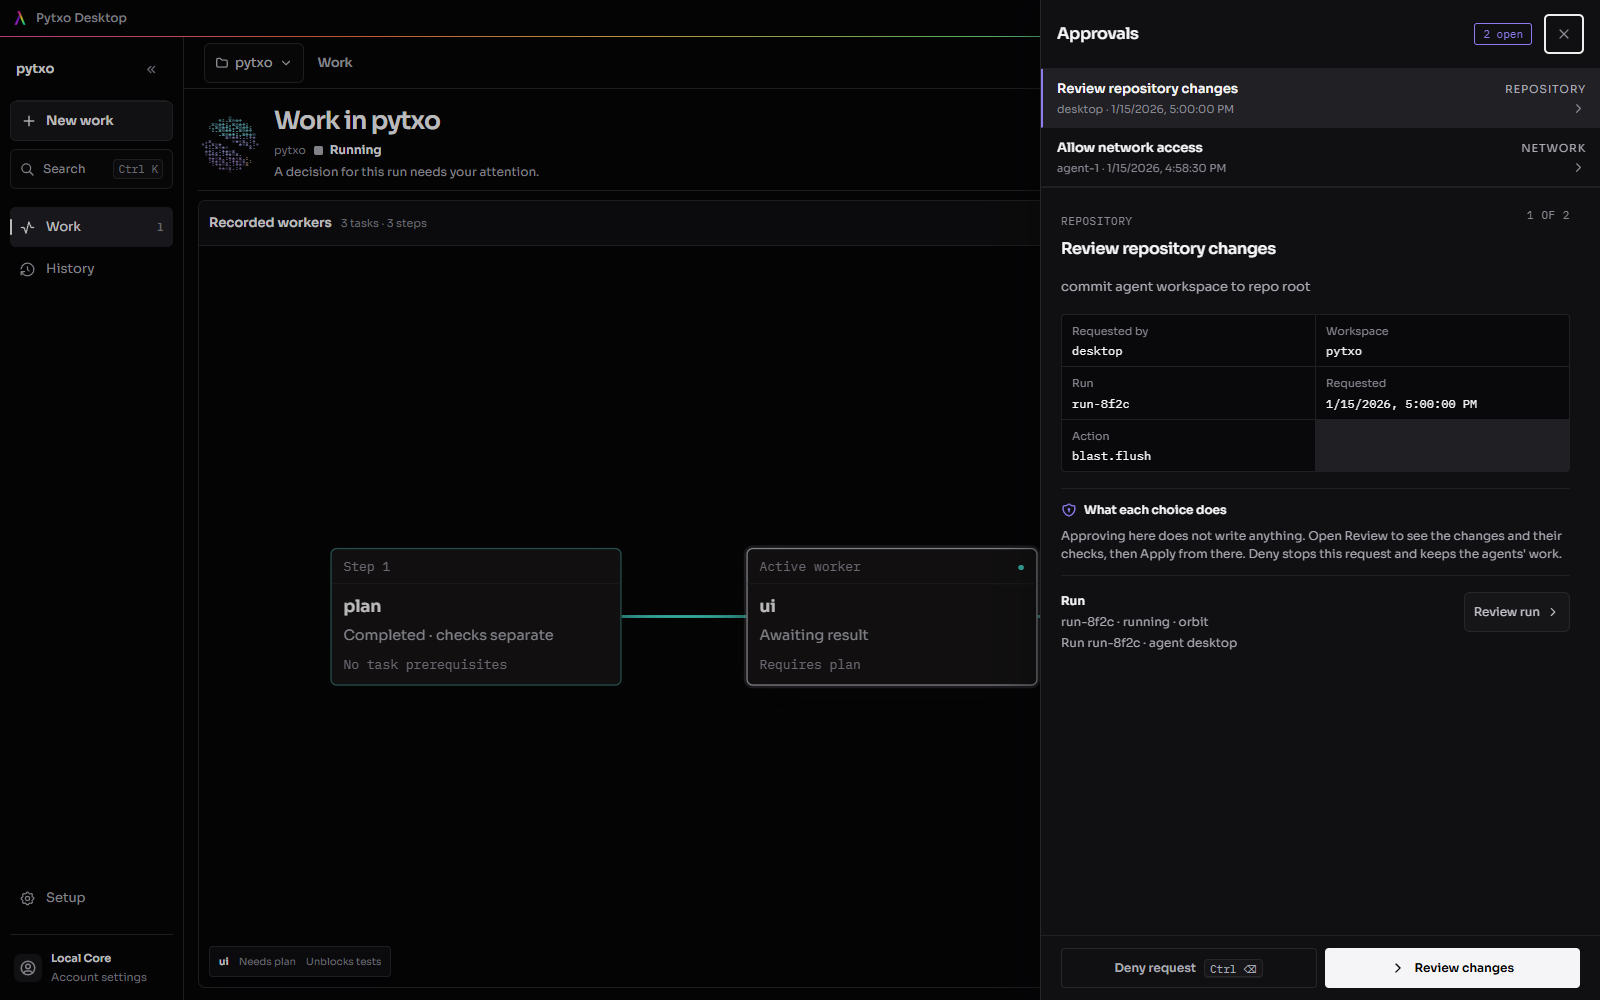
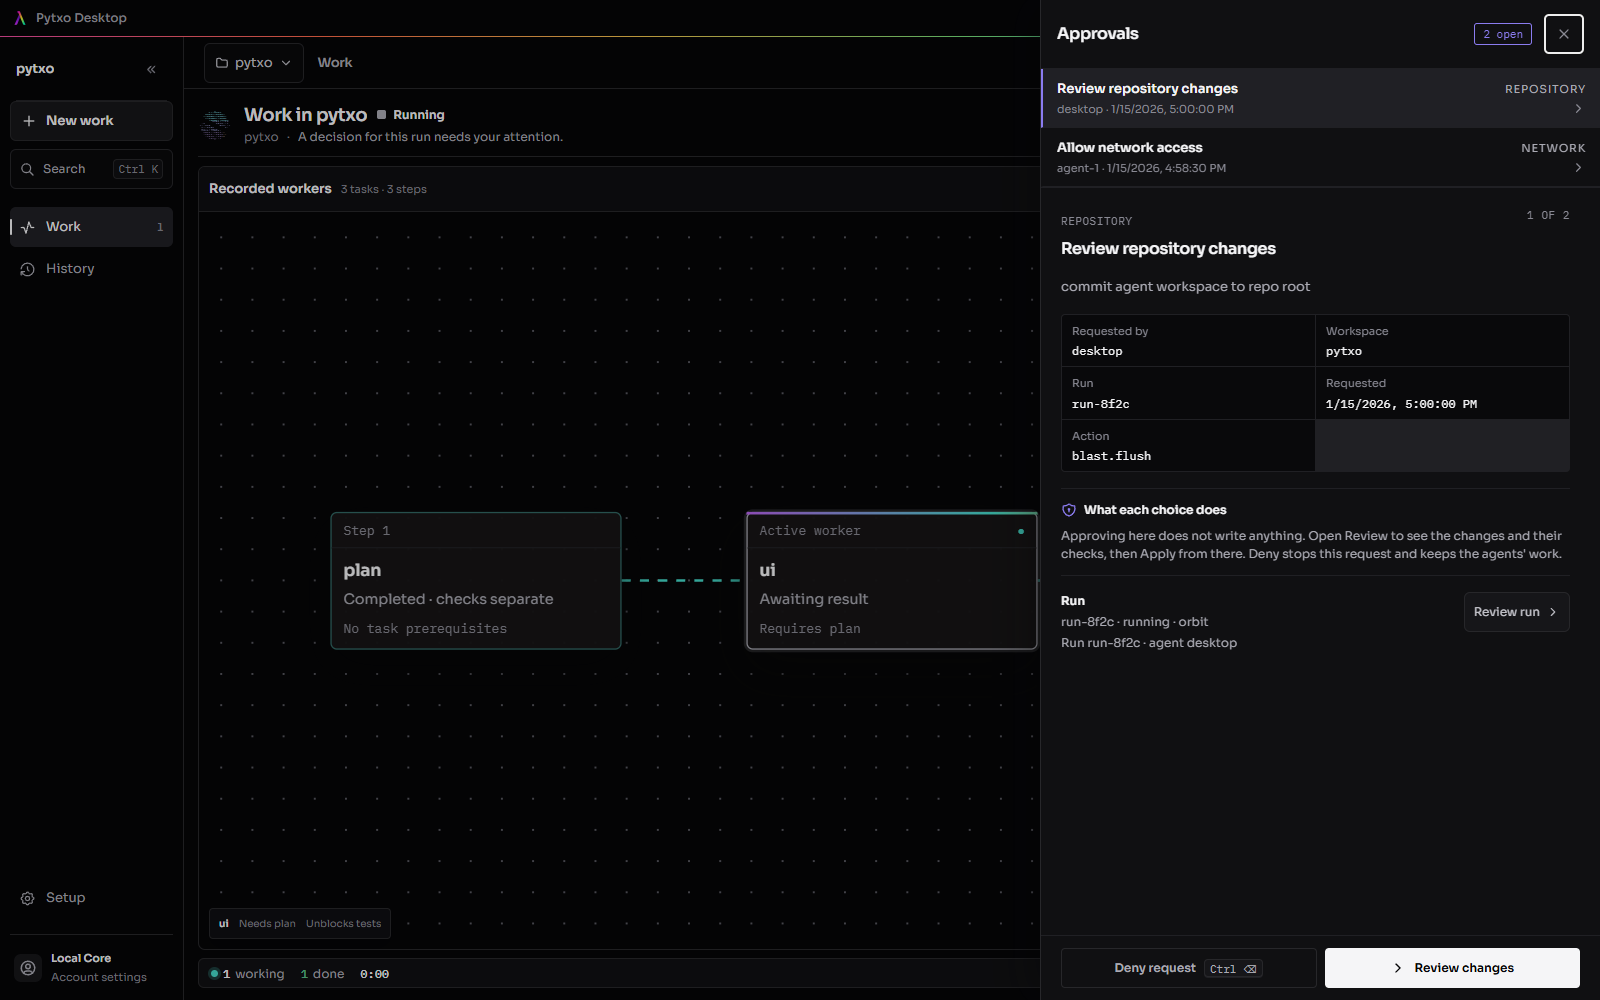
chore: refresh product captures; local native journey with a film take

diff --git a/tooling/acceptance/journey.py b/tooling/acceptance/journey.py
@@ -35,6 +35,8 @@ parser.add_argument("--mission")
 parser.add_argument("--team", default="Claude Code,Cursor Agent,OpenCode,Antigravity")
 parser.add_argument("--name", default="probe")
 parser.add_argument("--onboard", action="store_true")
+# Film takes: 60 fps without the baked-in pointer (it is redrawn from receipt telemetry), plus a canvas drag.
+parser.add_argument("--film", action="store_true")
 args = parser.parse_args()
 
 out = Path(args.out)
@@ -218,8 +220,8 @@ def start_recording():
     ffmpeg = imageio_ffmpeg.get_ffmpeg_exe()
     target = out / "screen.mkv"
     recorder = subprocess.Popen(
-        [ffmpeg, "-hide_banner", "-loglevel", "error", "-use_wallclock_as_timestamps", "1", "-f", "gdigrab", "-framerate", "30", "-draw_mouse", "1", "-i", "desktop",
-         "-copyts", "-c:v", "libx264", "-preset", "ultrafast", "-crf", "16", "-pix_fmt", "yuv420p", "-y", str(target)],
+        [ffmpeg, "-hide_banner", "-loglevel", "error", "-use_wallclock_as_timestamps", "1", "-f", "gdigrab", "-framerate", "60" if args.film else "30", "-draw_mouse", "0" if args.film else "1", "-i", "desktop",
+         "-copyts", "-c:v", "libx264", "-preset", "ultrafast", "-crf", "12" if args.film else "16", "-pix_fmt", "yuv420p", "-y", str(target)],
         stdin=subprocess.PIPE,
     )
     spawned = now_ms()
@@ -333,6 +335,24 @@ try:
         run = wait_for(lambda: (row := latest_run()) and row != before and row, 120, what="the run to start")
         run_id = run[0]
         step("run", id=run_id)
+        if args.film:
+            # Let the fleet stream, then grab the worker canvas and move it, then return.
+            time.sleep(6)
+            mark("fleet")
+            canvas = spec("Canvas", control_type="Button", index=0)
+            if present(canvas, 10):
+                press(canvas, "Canvas")
+                time.sleep(1.5)
+                area = spec(title_re="^Worker canvas", index=0).wrapper_object().rectangle()
+                x, y = area.left + area.width() // 2, area.top + area.height() // 3
+                glide(x, y, 0.6)
+                receipt["pointer"].append({"t": now_ms(), "kind": "drag", "label": "Canvas", "x": x, "y": y, "surface": "desktop"})
+                mouse.press(coords=(x, y))
+                glide(x - 260, y + 90, 1.2)
+                mouse.release(coords=(x - 260, y + 90))
+                mark("dragged")
+                time.sleep(2)
+                press(spec("Fleet", control_type="Button", index=0), "Fleet")
         run = wait_for(lambda: (row := latest_run()) and row[2] and row, 20 * 60, interval=3, what="the run to finish")
         mark("settled")
         agents = ledger("select task_id, status, exit_code from agents where run_id = ? order by task_id", run_id)
